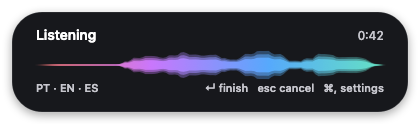
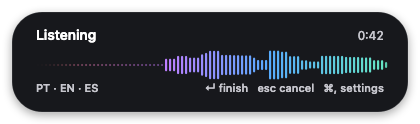
Update panel and settings screenshots for level bars and Contextual

Changed region(s): [[0.0929, 0.3871, 0.9286, 0.6532]]

diff --git a/docs/index.html b/docs/index.html
@@ -178,7 +178,7 @@
         <figure>
           <a href="media/settings-cleanup.png" aria-label="View the full Smart cleanup screenshot">
             <img src="media/settings-cleanup.png" width="800" height="642" loading="lazy"
-              alt="Dark settings window with Apple Intelligence ready and Written selected among three review styles" />
+              alt="Dark settings window with Apple Intelligence ready and Written selected among four review styles" />
           </a>
           <figcaption>Three review styles, in a native light or dark interface.</figcaption>
         </figure>
